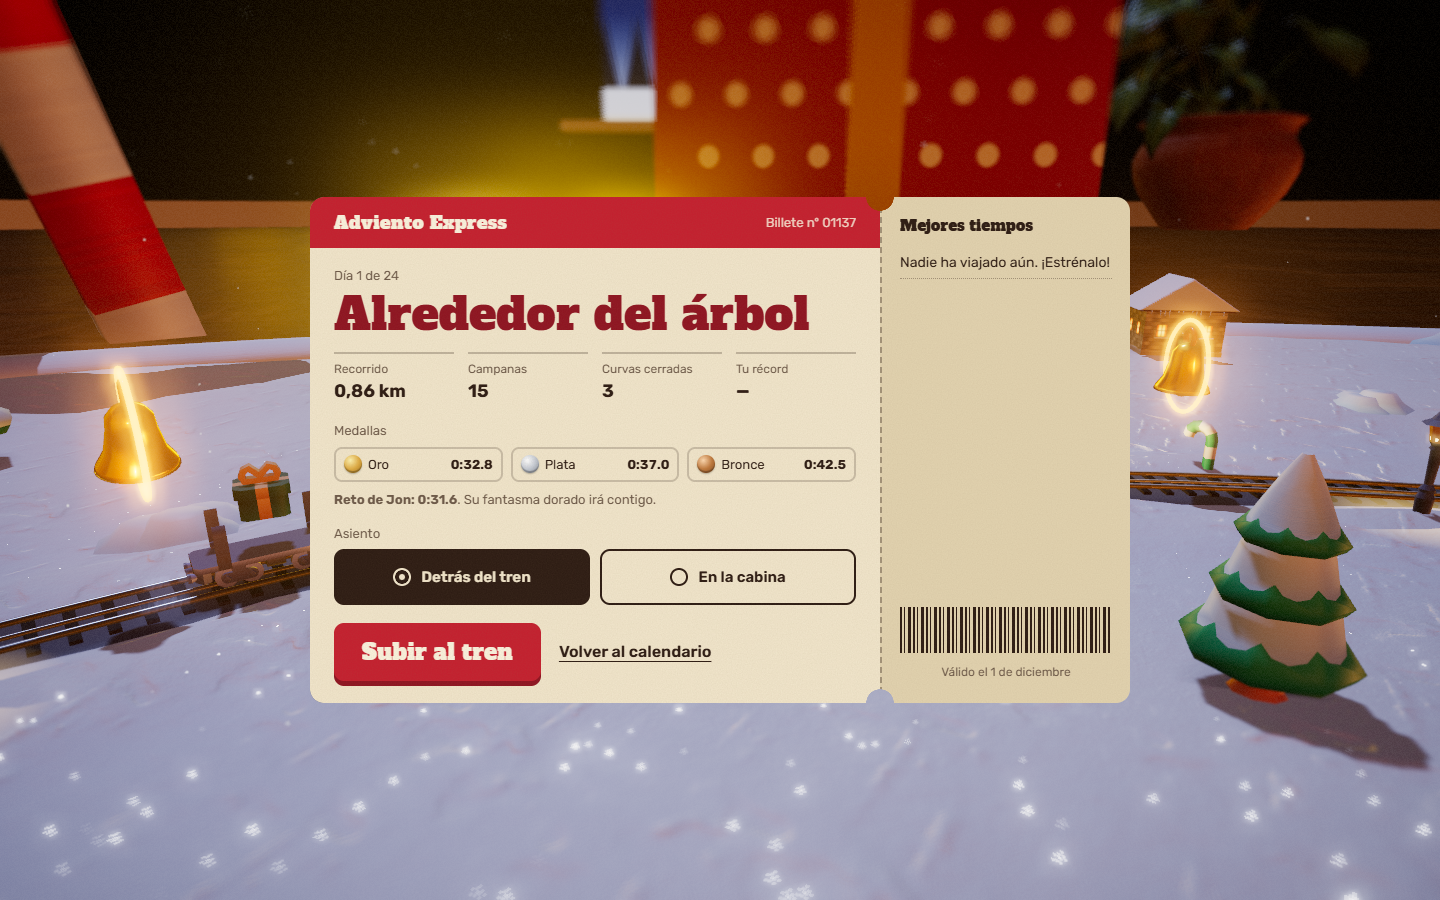
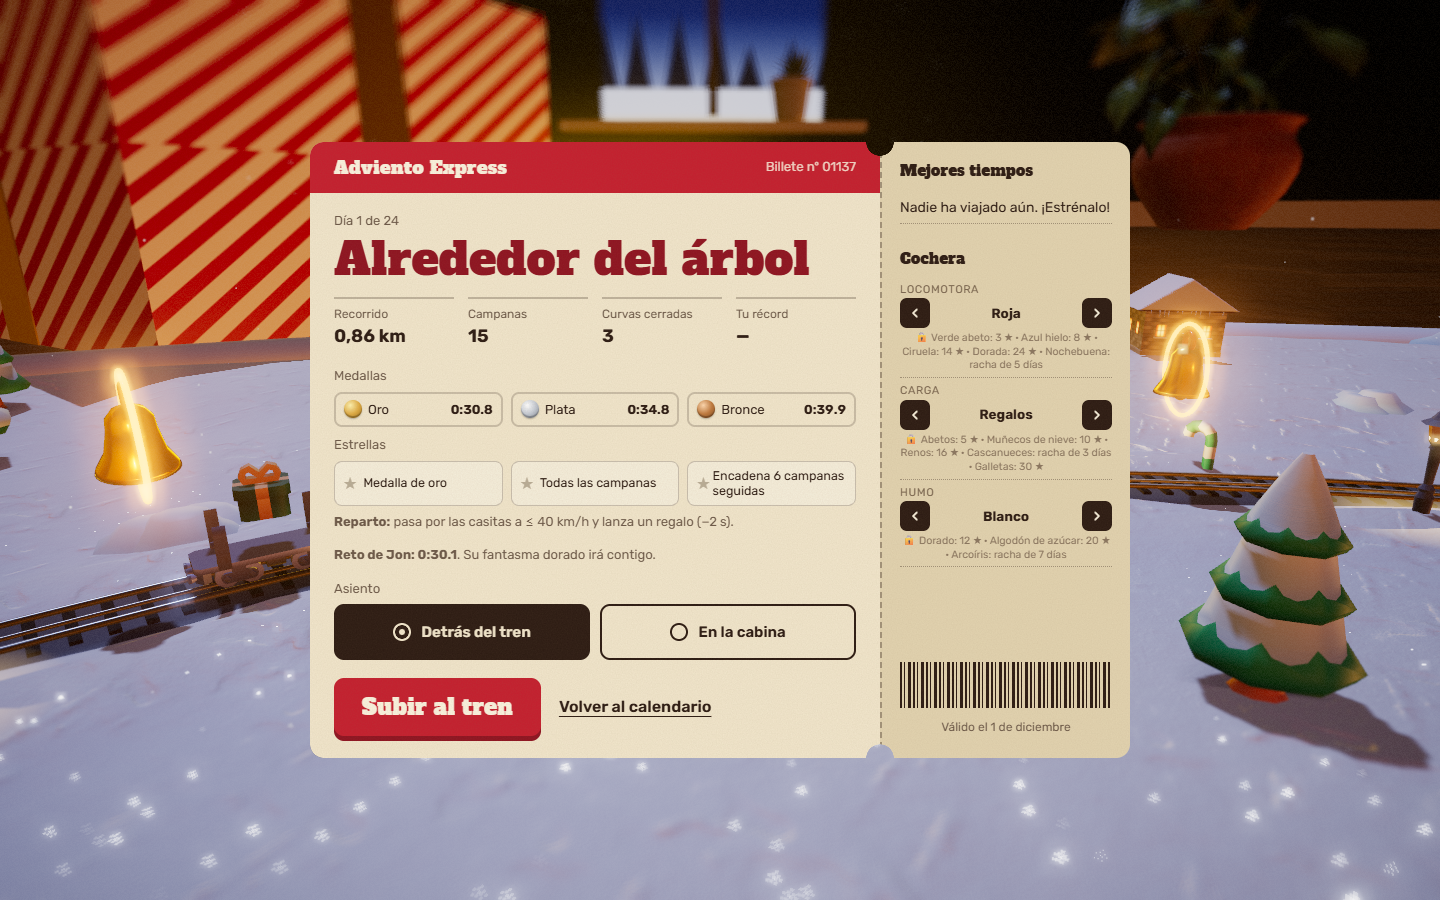
Confeti de colores (el atributo color no se subía a la GPU) y capturas nuevas
confettiBurst() rellenaba los colores pero no marcaba el atributo como
cambiado, así que se veía negro desde la v0.5. Capturas de docs/ con
estrellas, cochera y repartos.

diff --git a/src/main.js b/src/main.js
@@ -258,7 +258,7 @@ function burst(c,n=150,sp0=14,col){col=col||[[4,1,1.2],[4,3,.8],[1,2.4,4],[1.2,4
 const CFN=500,cfP=new Float32Array(CFN*3),cfC=new Float32Array(CFN*3),cf=Array.from({length:CFN},()=>({l:0,v:new THREE.Vector3(),ph:0}));
 const cfG=new THREE.BufferGeometry();cfG.setAttribute('position',new THREE.BufferAttribute(cfP,3));cfG.setAttribute('color',new THREE.BufferAttribute(cfC,3));
 const confetti=new THREE.Points(cfG,new THREE.PointsMaterial({size:0.55,vertexColors:true}));confetti.frustumCulled=false;scene.add(confetti);for(let i=0;i<CFN;i++)cfP[i*3+1]=-999;
-function confettiBurst(c){const pal=[[1,.15,.2],[1,.8,.2],[.2,.8,.4],[.3,.6,1],[1,1,1]];for(let i=0;i<CFN;i++){const p=cf[i];p.l=3+Math.random()*2;p.ph=Math.random()*6;p.v.set((Math.random()-.5)*16,10+Math.random()*12,(Math.random()-.5)*16);cfP.set([c.x+(Math.random()-.5)*4,c.y,c.z+(Math.random()-.5)*4],i*3);cfC.set(pal[i%5],i*3)}}
+function confettiBurst(c){const pal=[[1,.15,.2],[1,.8,.2],[.2,.8,.4],[.3,.6,1],[1,1,1]];for(let i=0;i<CFN;i++){const p=cf[i];p.l=3+Math.random()*2;p.ph=Math.random()*6;p.v.set((Math.random()-.5)*16,10+Math.random()*12,(Math.random()-.5)*16);cfP.set([c.x+(Math.random()-.5)*4,c.y,c.z+(Math.random()-.5)*4],i*3);cfC.set(pal[i%5],i*3)}cfG.attributes.color.needsUpdate=true}
 let flyer=null,fly=null;
 
 /* ================= salón (fijo) ================= */
